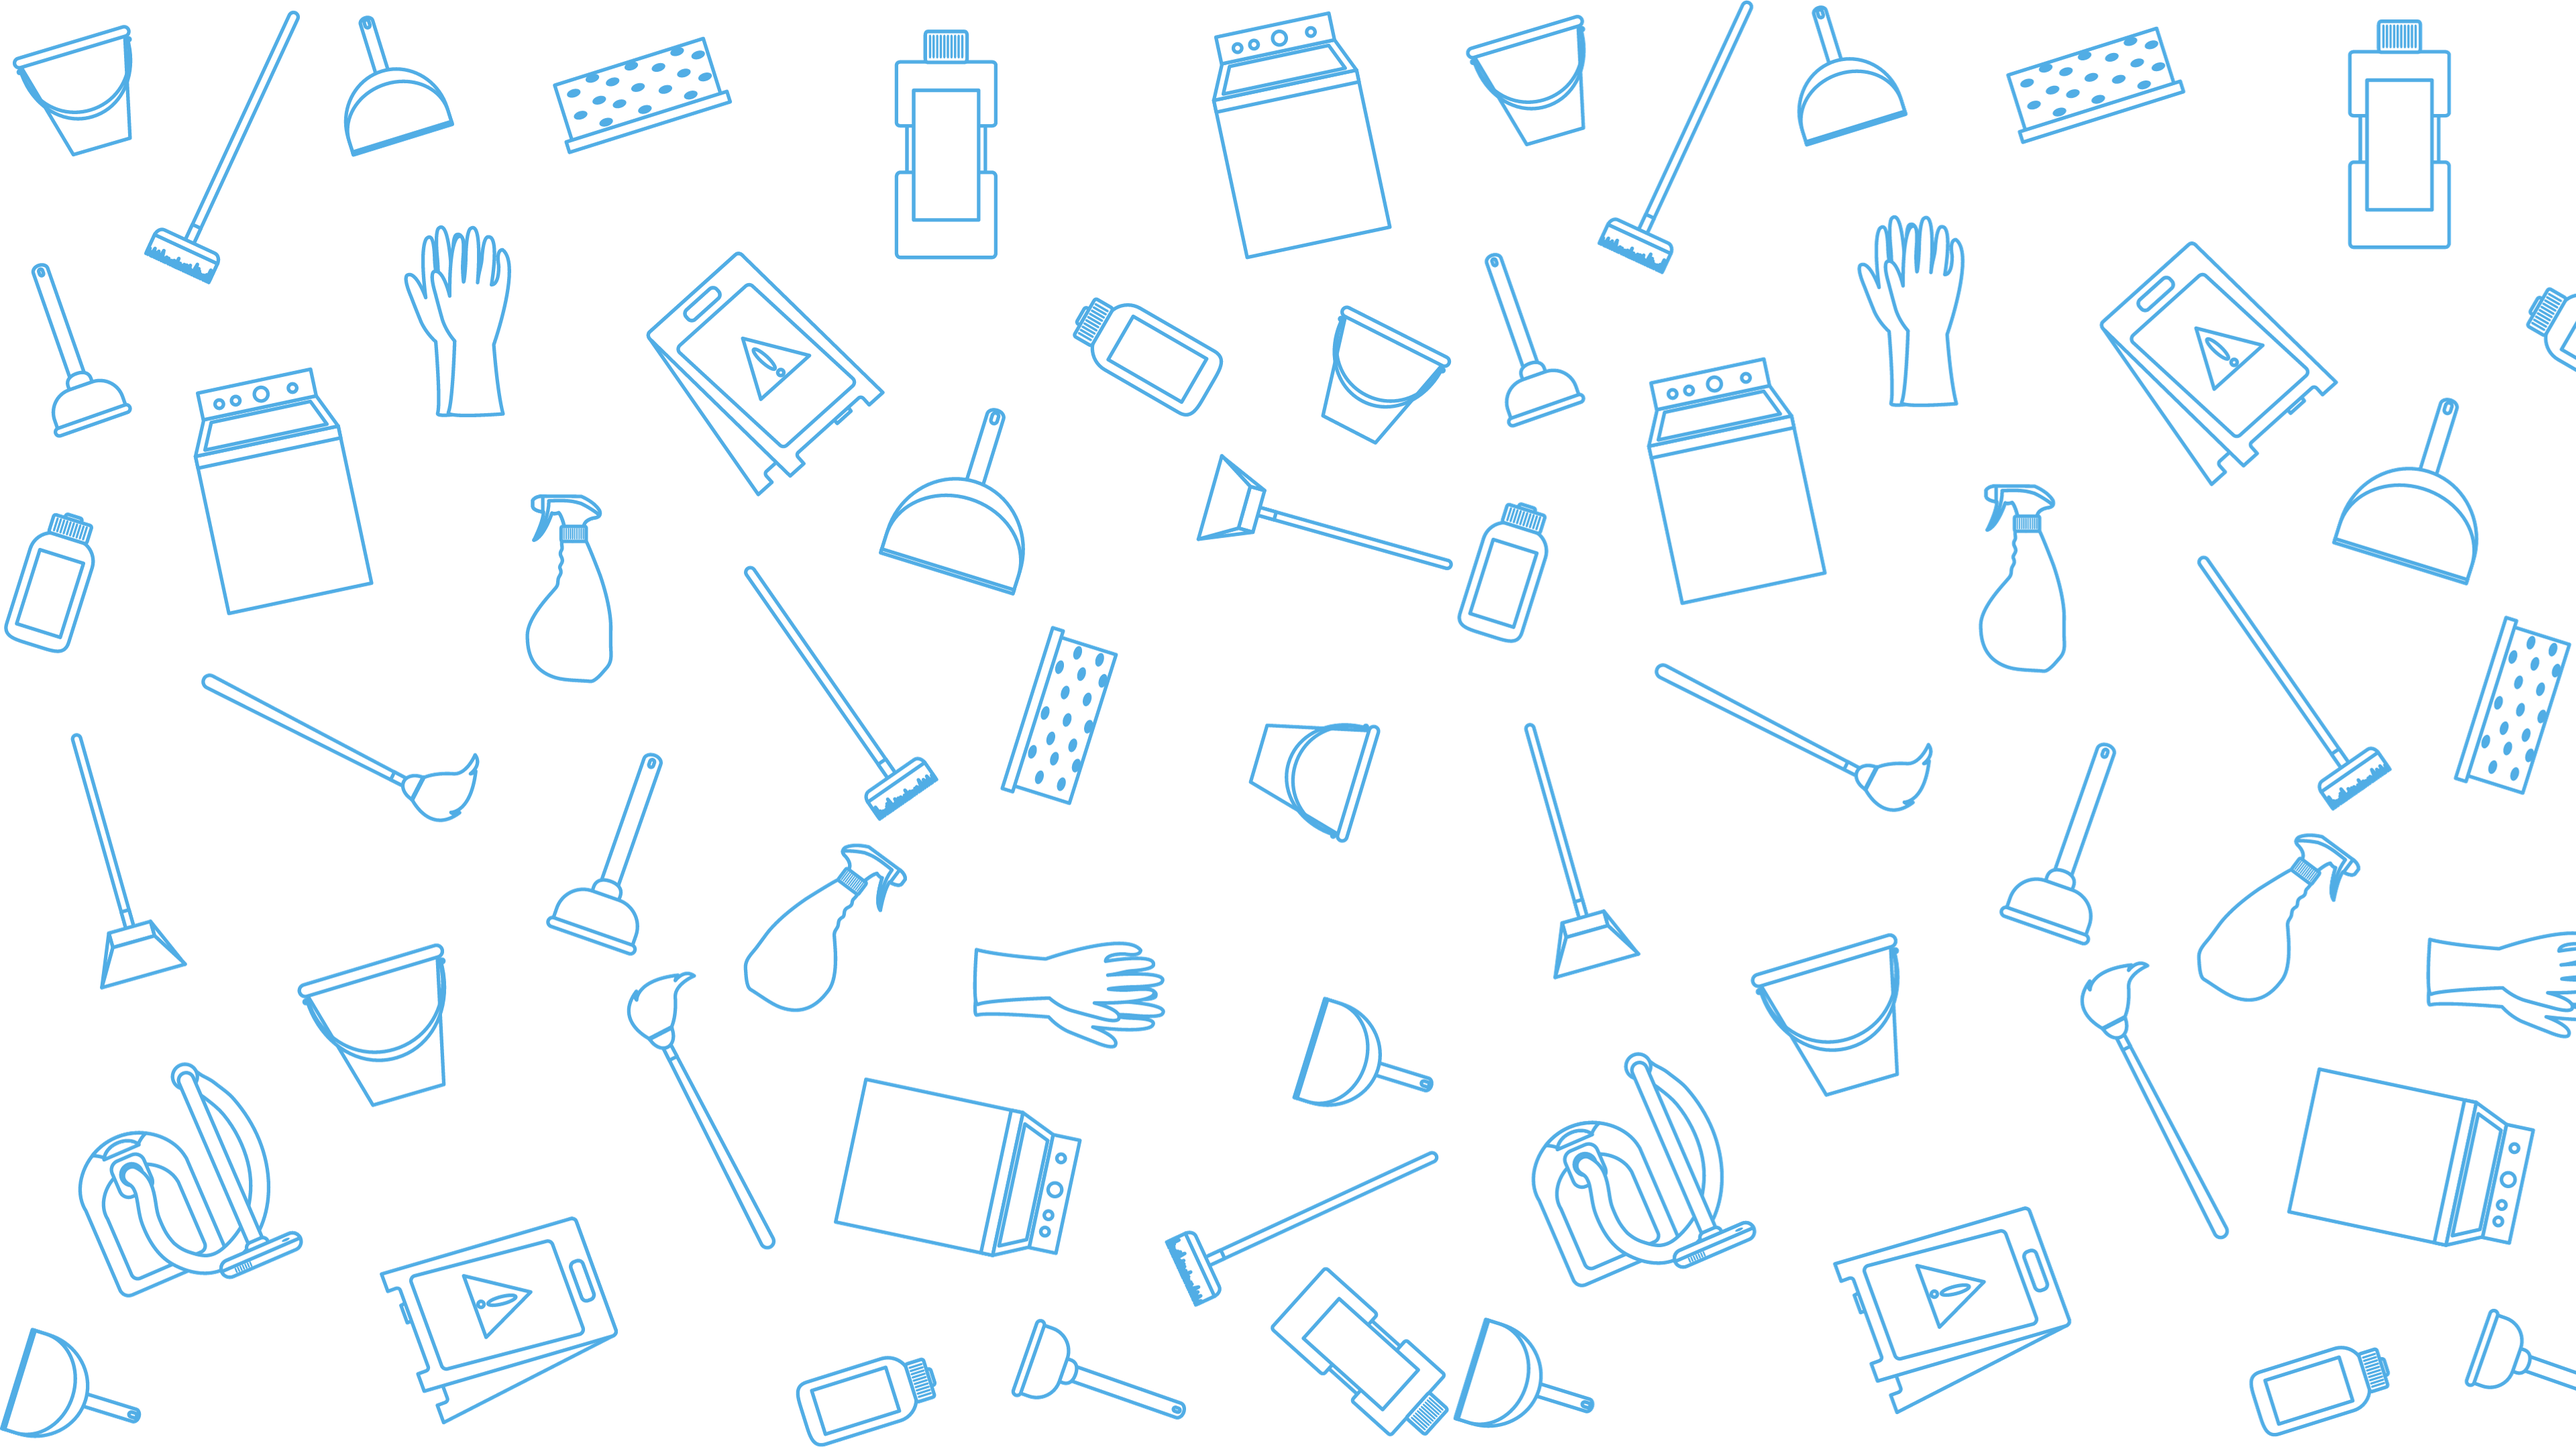
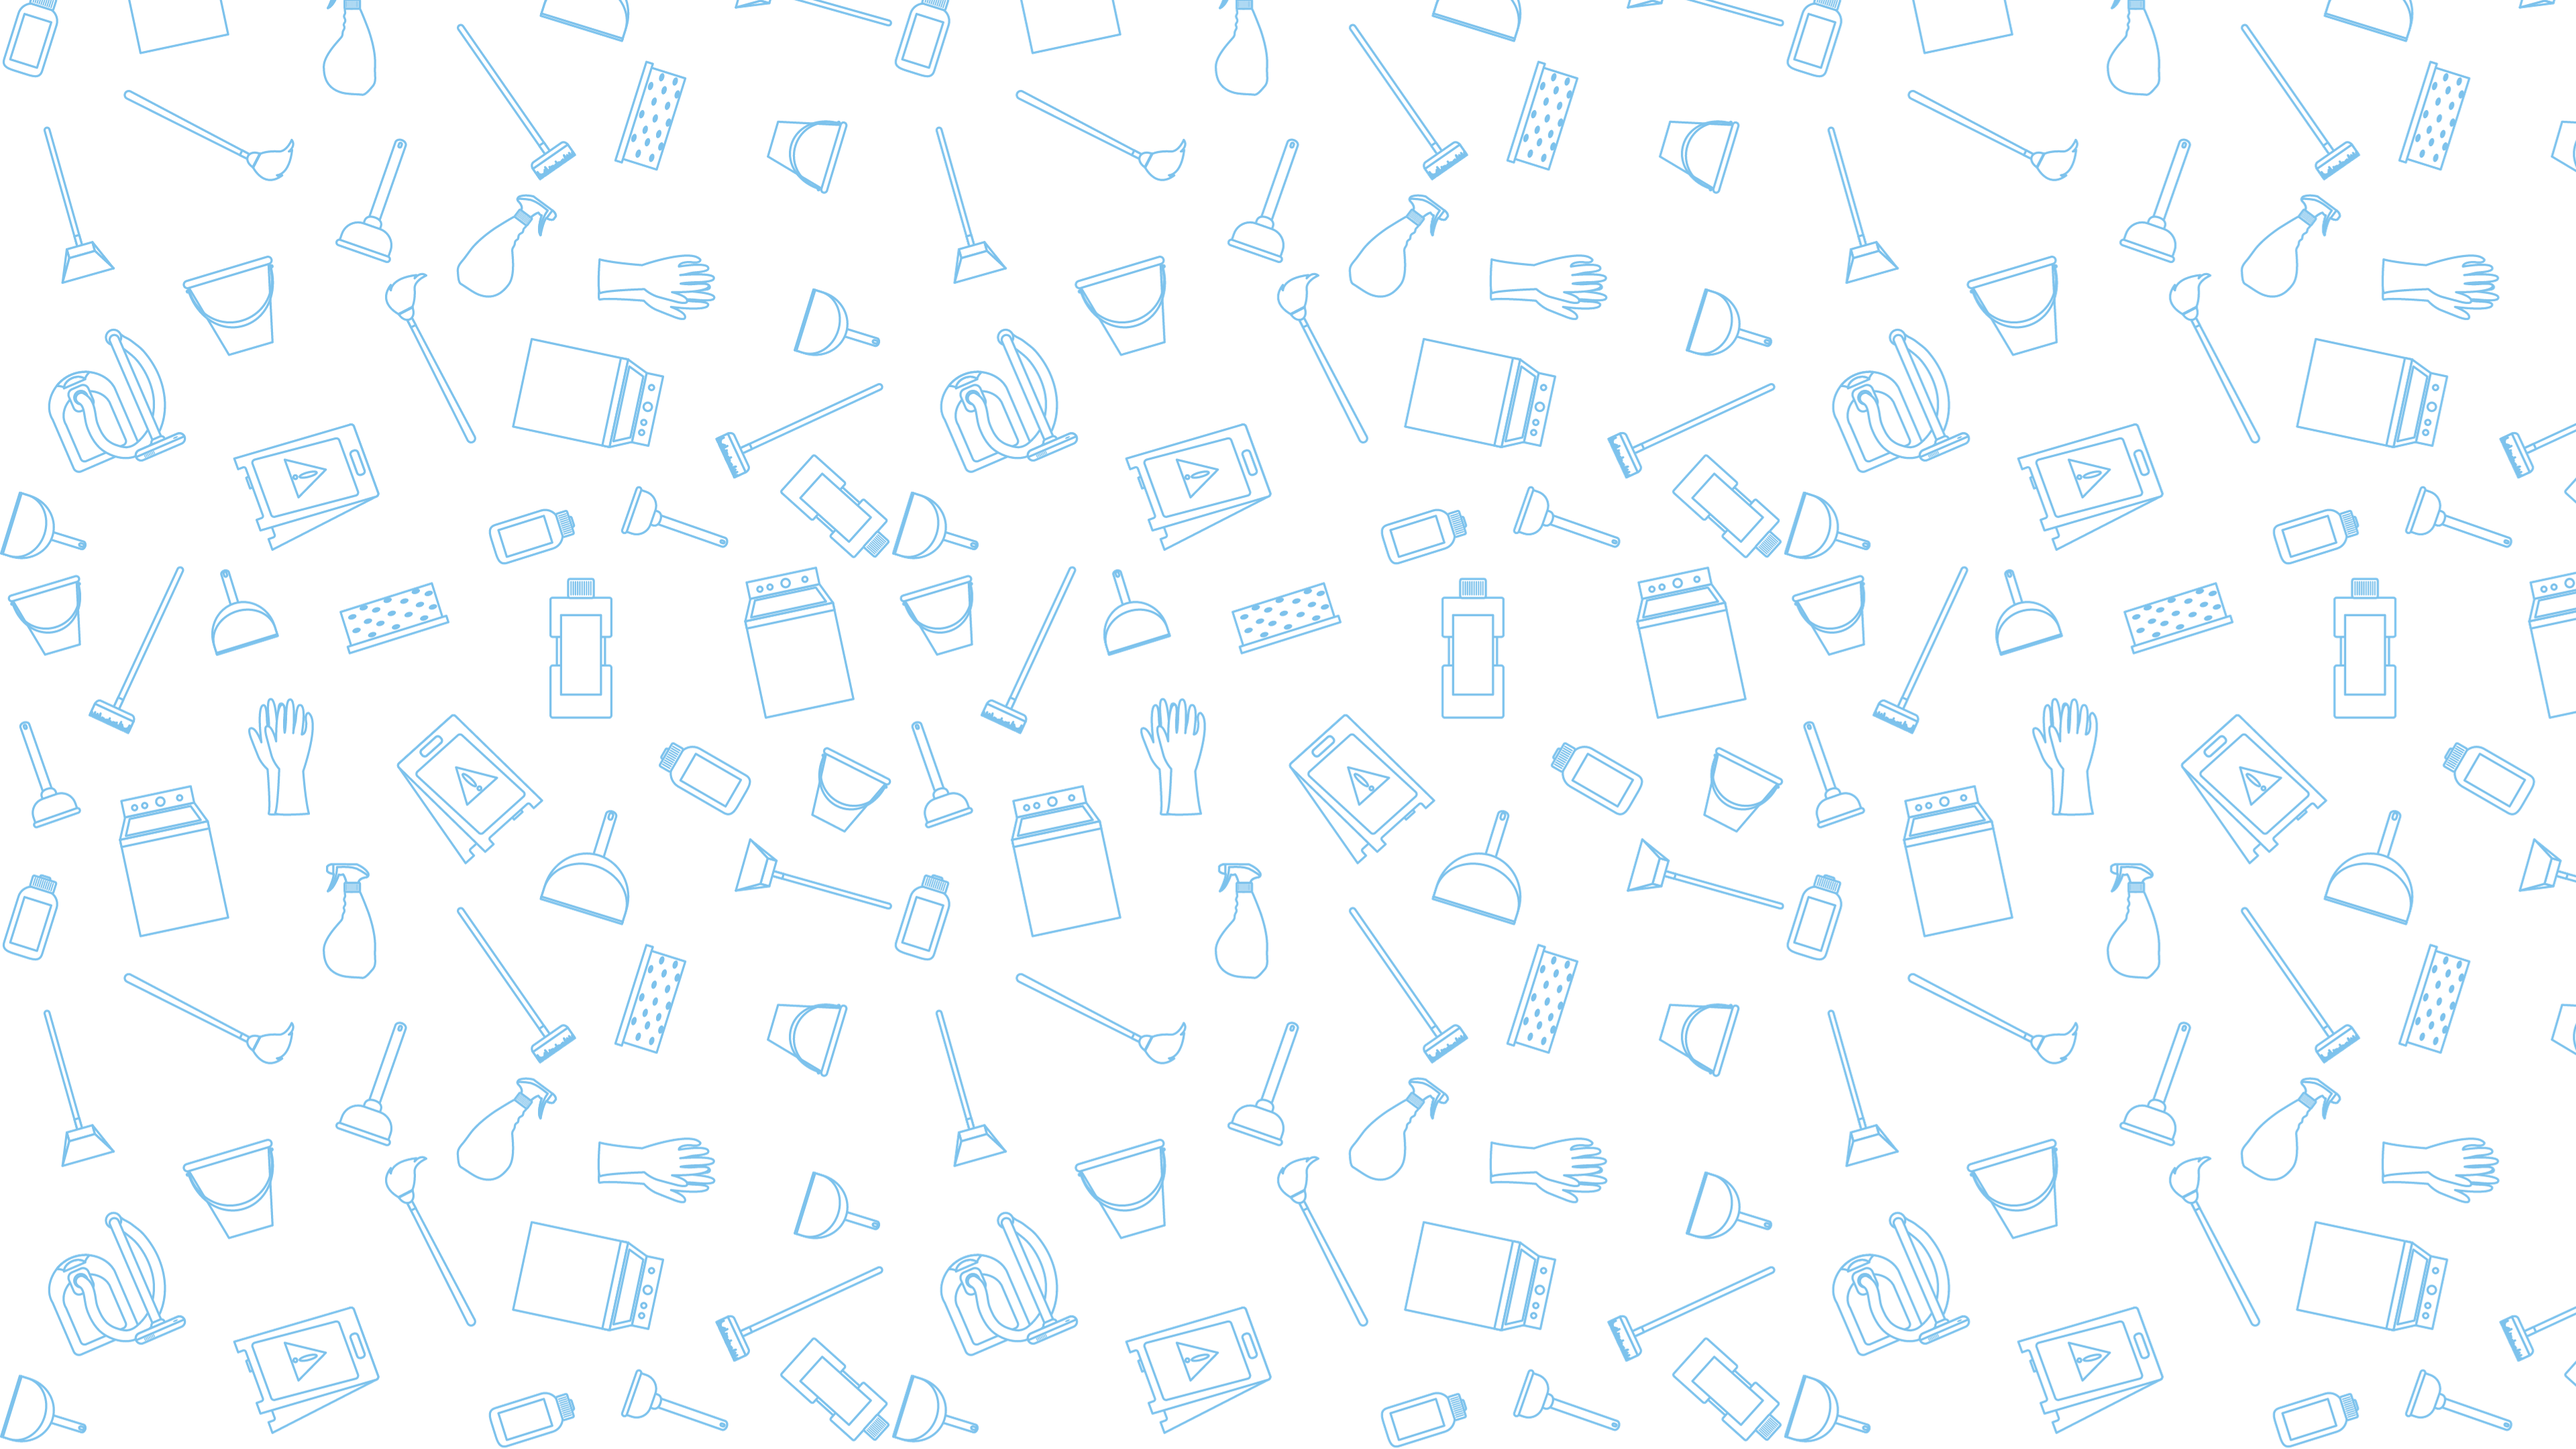
opa

diff --git a/lava-jato/dashboard.html b/lava-jato/dashboard.html
@@ -8,7 +8,7 @@
     <meta name="viewport" content="width=device-width, initial-scale=1.0">
     <link href="https://cdn.jsdelivr.net/npm/bootstrap@5.0.2/dist/css/bootstrap.min.css" rel="stylesheet" integrity="sha384-EVSTQN3/azprG1Anm3QDgpJLIm9Nao0Yz1ztcQTwFspd3yD65VohhpuuCOmLASjC" crossorigin="anonymous">
     <script src="https://cdn.jsdelivr.net/npm/bootstrap@5.0.2/dist/js/bootstrap.bundle.min.js" integrity="sha384-MrcW6ZMFYlzcLA8Nl+NtUVF0sA7MsXsP1UyJoMp4YLEuNSfAP+JcXn/tWtIaxVXM" crossorigin="anonymous"></script>
-    
+    <script src="https://unpkg.com/@popperjs/core@2/dist/umd/popper.js"></script>
     <title>Painel Principal</title>
     <link rel="stylesheet" href="styles/dashboard.css">
     <link rel="stylesheet" href="https://cdnjs.cloudflare.com/ajax/libs/font-awesome/6.4.2/css/all.min.css">
@@ -93,8 +93,10 @@
             </div> 
         </div>
             </div>  
-        <div class="container-table">  
-            
+        <div class="container-table rounded">
+            <br>  
+            <h4 class="nome">Tabela de Preços</h4>
+            <br>
                 <div class="table">
                     <table>
                         <tr>
@@ -104,7 +106,7 @@
                             <th>Veículo Grande</th>
                         </tr>
                         <tr>
-                            <td  data-bs-container="body" data-bs-toggle="popover" data-bs-placement="left" data-bs-content="Left popover">Americana Simples</td>
+                            <td data-bs-toggle="tooltip" data-bs-placement="left" title="Tooltip on left">Americana Simples</td>
                             <td>40,00</td>
                             <td>50,00</td>
                             <td>70,00</td>

diff --git a/lava-jato/js/styles.js b/lava-jato/js/styles.js
@@ -1,0 +1,21 @@
+// import { createPopper } from '@popperjs/core/lib/popper-lite.js';
+// import preventOverflow from '@popperjs/core/lib/modifiers/preventOverflow.js';
+// import flip from '@popperjs/core/lib/modifiers/flip.js';
+
+// const button = document.querySelector('#button');
+// const tooltip = document.querySelector('#tooltip');
+
+// createPopper(button, tooltip, {
+//   modifiers: [preventOverflow, flip],
+// })
+
+var tooltipTriggerList = [].slice.call(document.querySelectorAll('[data-bs-toggle="tooltip"]'))
+var tooltipList = tooltipTriggerList.map(function (tooltipTriggerEl) {
+  return new bootstrap.Tooltip(tooltipTriggerEl)
+})
+var exampleEl = document.getElementById('example')
+var tooltip = new bootstrap.Tooltip(exampleEl, options)
+var exampleEl = document.getElementById('example')
+var tooltip = new bootstrap.Tooltip(exampleEl, {
+  boundary: document.body // or document.querySelector('#boundary')
+})

diff --git a/lava-jato/styles/dashboard.css b/lava-jato/styles/dashboard.css
@@ -5,7 +5,8 @@
     box-sizing: border-box;
 }
 body {
-    background-image: url('/lava-jato/img/fundo.png');
+    background-image: url('../img/fundo.png');
+    background-size: cover;
     font-family: exo;
 }
 .container-nav{
@@ -81,11 +82,21 @@ body {
 .sair a:hover{
     color: #f00;
 }
+.container-table{
+    width: 75%;
+    margin: 0 auto;
+    background-color: #f5f5f5;
+    border-collapse: collapse;
+    border: solid 2px rgba(134, 134, 134, 0.692);
+}
+.container-table h4{
+    text-align: center;
+}
 .table{
     width: 50%;
     display: flex;
     margin: 0 auto;
-    margin-top: 2em;
+    margin-top: 0em;
     text-align: center;
     align-items: center;
     justify-content: center;
@@ -97,7 +108,7 @@ body {
 .table th,.table td{
     text-align:left;
     padding:8px;
-    border:solid 1px #292929
+    border:solid 1px #000000
 }
 .table th{
     color:#000080
